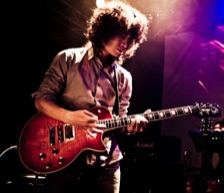
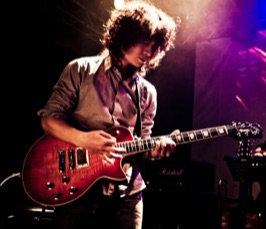
fix: 照片放大 20%（96→115px）、副標移照片下一行、移除 GitHub 連結

diff --git a/public/index.html b/public/index.html
@@ -32,7 +32,7 @@ a:hover { text-decoration-thickness: 2px; }
 
 .header-top { display: flex; align-items: center; gap: clamp(.9rem, 2.5vw, 1.4rem); }
 .avatar {
-  flex: 0 0 auto; height: clamp(72px, 11vw, 96px); width: auto;
+  flex: 0 0 auto; height: clamp(86px, 13vw, 115px); width: auto;
   border-radius: 2px;
 }
 .header-text { flex: 1; min-width: 0; }
@@ -86,15 +86,14 @@ footer {
         <p class="links">
           <a href="mailto:musik.hugowski@gmail.com">Email</a> ·
           <a href="https://orcid.org/0000-0002-1523-4198">ORCID</a> ·
-          <a href="https://github.com/bkwmt">GitHub</a> ·
           <a href="CV_MingCheng_zh.pdf">CV（中）</a> ·
           <a href="CV_MingCheng_en.pdf">CV (EN)</a>
           <button id="lang-toggle" aria-label="Switch language">中</button>
         </p>
       </div>
-      <p class="subline"><span class="zh">音樂學者・錄音室吉他手</span><span class="en">Musicologist · Session Guitarist</span>｜<span class="zh">中央研究院資訊科學研究所 音樂與文化科技實驗室 博士後研究學者</span><span class="en">Postdoctoral Fellow, Music and Culture Technology Lab, Institute of Information Science, Academia Sinica</span></p>
     </div>
   </div>
+  <p class="subline"><span class="zh">音樂學者・錄音室吉他手</span><span class="en">Musicologist · Session Guitarist</span>｜<span class="zh">中央研究院資訊科學研究所 音樂與文化科技實驗室 博士後研究學者</span><span class="en">Postdoctoral Fellow, Music and Culture Technology Lab, Institute of Information Science, Academia Sinica</span></p>
   <div class="banner-rule" aria-hidden="true"></div>
 </header>
 <main>
